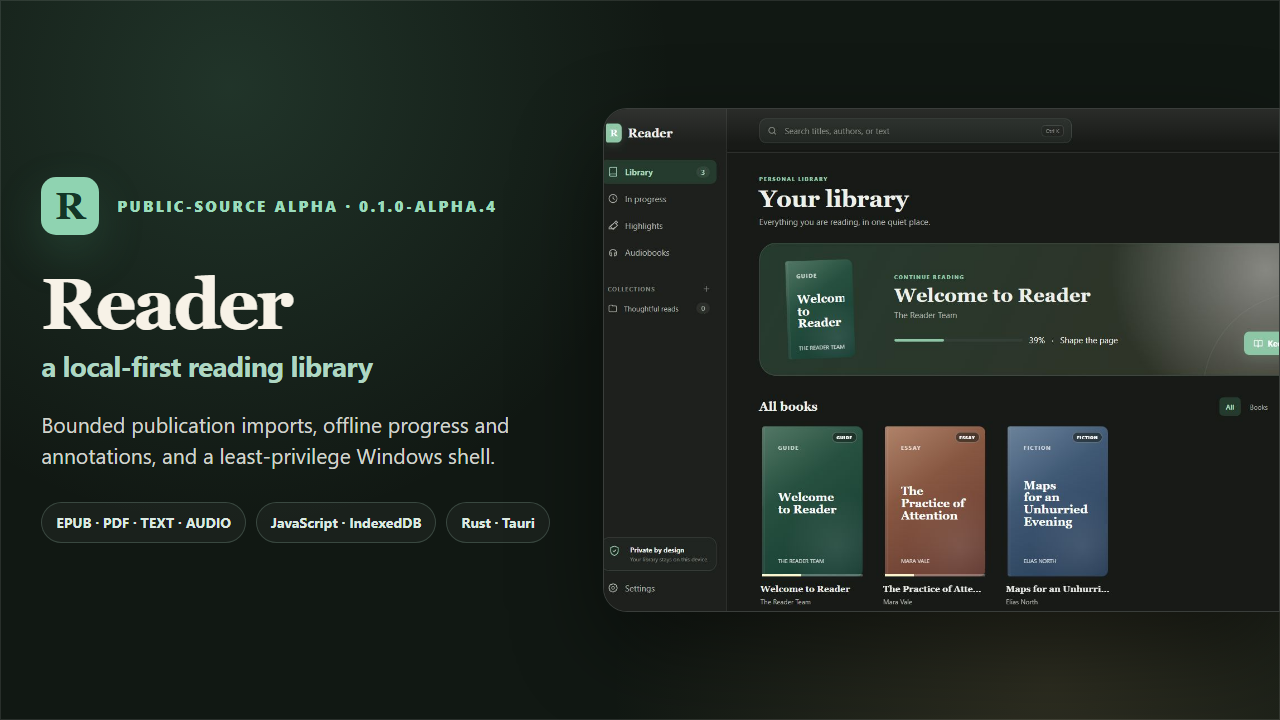
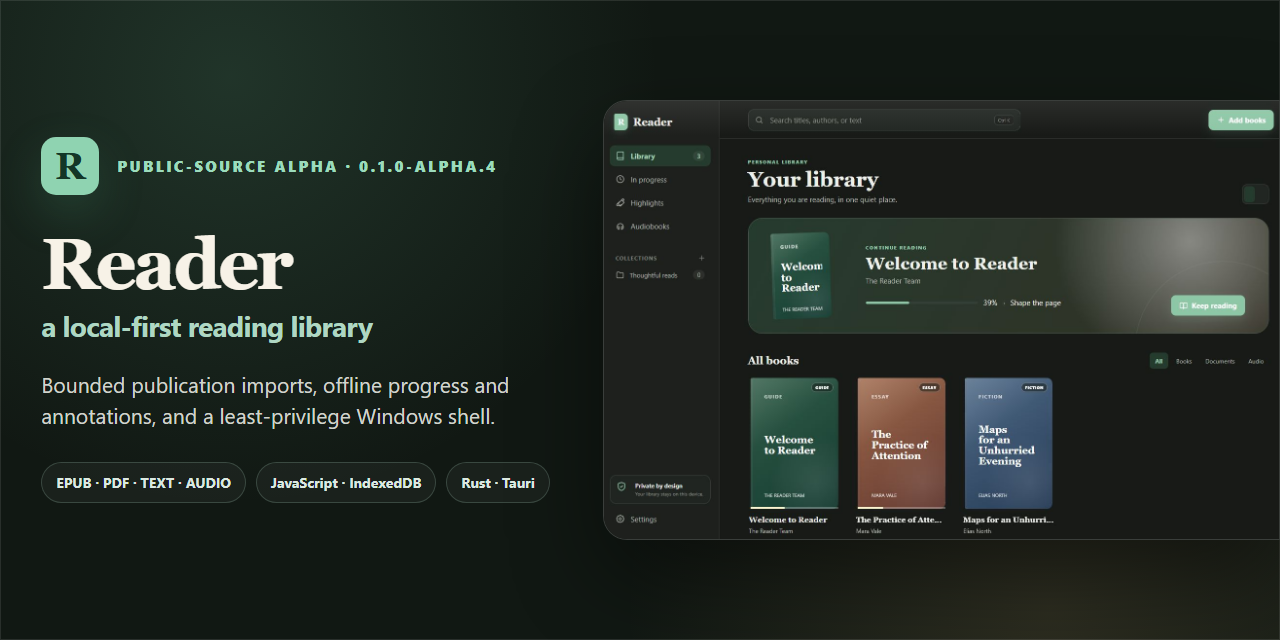
docs: improve recruiter media layout

diff --git a/README.md b/README.md
@@ -14,9 +14,23 @@ Reader is a Windows prerelease for reading authorized EPUB, PDF, text, and audio
 
 **[Watch the 75-second repository demo](docs/media/demo/reader-alpha4-demo.mp4)** · [Read the timed transcript](docs/DEMO_SCRIPT.md) · [Review media provenance and dimensions](docs/media/README.md)
 
-| Focused reading                                                                                                                   | Local PDF rendering                                                                                   | Protected-content boundary                                                                                                                                       |
-| --------------------------------------------------------------------------------------------------------------------------------- | ----------------------------------------------------------------------------------------------------- | ---------------------------------------------------------------------------------------------------------------------------------------------------------------- |
-| [![Reader focused reading view in sepia](docs/media/screenshots/focused-reading.jpg)](docs/media/screenshots/focused-reading.jpg) | [![Reader canvas PDF view](docs/media/screenshots/pdf-view.jpg)](docs/media/screenshots/pdf-view.jpg) | [![Reader metadata-only protected-content screen](docs/media/screenshots/protected-content-boundary.jpg)](docs/media/screenshots/protected-content-boundary.jpg) |
+### Focused reading
+
+[![Reader focused reading view in sepia](docs/media/screenshots/focused-reading.jpg)](docs/media/screenshots/focused-reading.jpg)
+
+The real reading surface keeps contents, typography controls, progress, highlights, and synthetic text in one distraction-light view. [Open the full-size focused-reading capture.](docs/media/screenshots/focused-reading.jpg)
+
+### Local PDF rendering
+
+[![Reader canvas PDF view](docs/media/screenshots/pdf-view.jpg)](docs/media/screenshots/pdf-view.jpg)
+
+Reader renders a repository-generated PDF with the packaged local PDF.js worker; scripting, evaluation, XFA, and external content stay disabled. [Open the full-size PDF capture.](docs/media/screenshots/pdf-view.jpg)
+
+### Protected-content boundary
+
+[![Reader metadata-only protected-content screen](docs/media/screenshots/protected-content-boundary.jpg)](docs/media/screenshots/protected-content-boundary.jpg)
+
+Protected AAX-like input is identified within strict bounds and shown as metadata only—Reader does not accept activation data, decrypt, convert, or play it. [Open the full-size boundary capture.](docs/media/screenshots/protected-content-boundary.jpg)
 
 Every frame uses the real `0.1.0-alpha.4` UI with repository-generated synthetic content. The demo has no audio; the linked transcript supplies the timed narration and captions.
 

diff --git a/docs/RECRUITER_COPY.md b/docs/RECRUITER_COPY.md
@@ -106,7 +106,7 @@ AI coding agents assisted with research, implementation, testing, and iteration.
 | Appearance controls        | `docs/media/screenshots/appearance-controls.jpg`        | “Reader appearance panel with paper, sepia, and night themes and typography controls.”                             |
 | Recruiter demo             | `docs/media/demo/reader-alpha4-demo.mp4`                | 75-second real-UI repository asset; no standalone hosted demo URL.                                                 |
 | Demo thumbnail             | `docs/media/demo/reader-alpha4-demo-thumbnail.jpg`      | Real library UI thumbnail tracked with the public source.                                                          |
-| GitHub social preview      | `docs/media/social/github-social-preview.png`           | 1280×720 composition using the real library capture and verified positioning.                                      |
+| GitHub social preview      | `docs/media/social/github-social-preview.png`           | 1280×640 composition using the real library capture and GitHub's uncropped preview ratio.                          |
 | Portfolio preview          | `docs/media/social/portfolio-og-preview.png`            | 1200×630 composition using the real Reader UI and verified stack.                                                  |
 
 ## Publication checklist for copy owners

diff --git a/docs/media/README.md b/docs/media/README.md
@@ -26,7 +26,7 @@ Alt text is centralized in `docs/RECRUITER_COPY.md` and used by the README where
 
 ## Social previews
 
-- `social/github-social-preview.png` — 1280×720.
+- `social/github-social-preview.png` — 1280×640, GitHub's recommended uncropped aspect ratio.
 - `social/portfolio-og-preview.png` — 1200×630.
 - `social/preview-source.html` — reproducible composition source using the real library capture.
 
